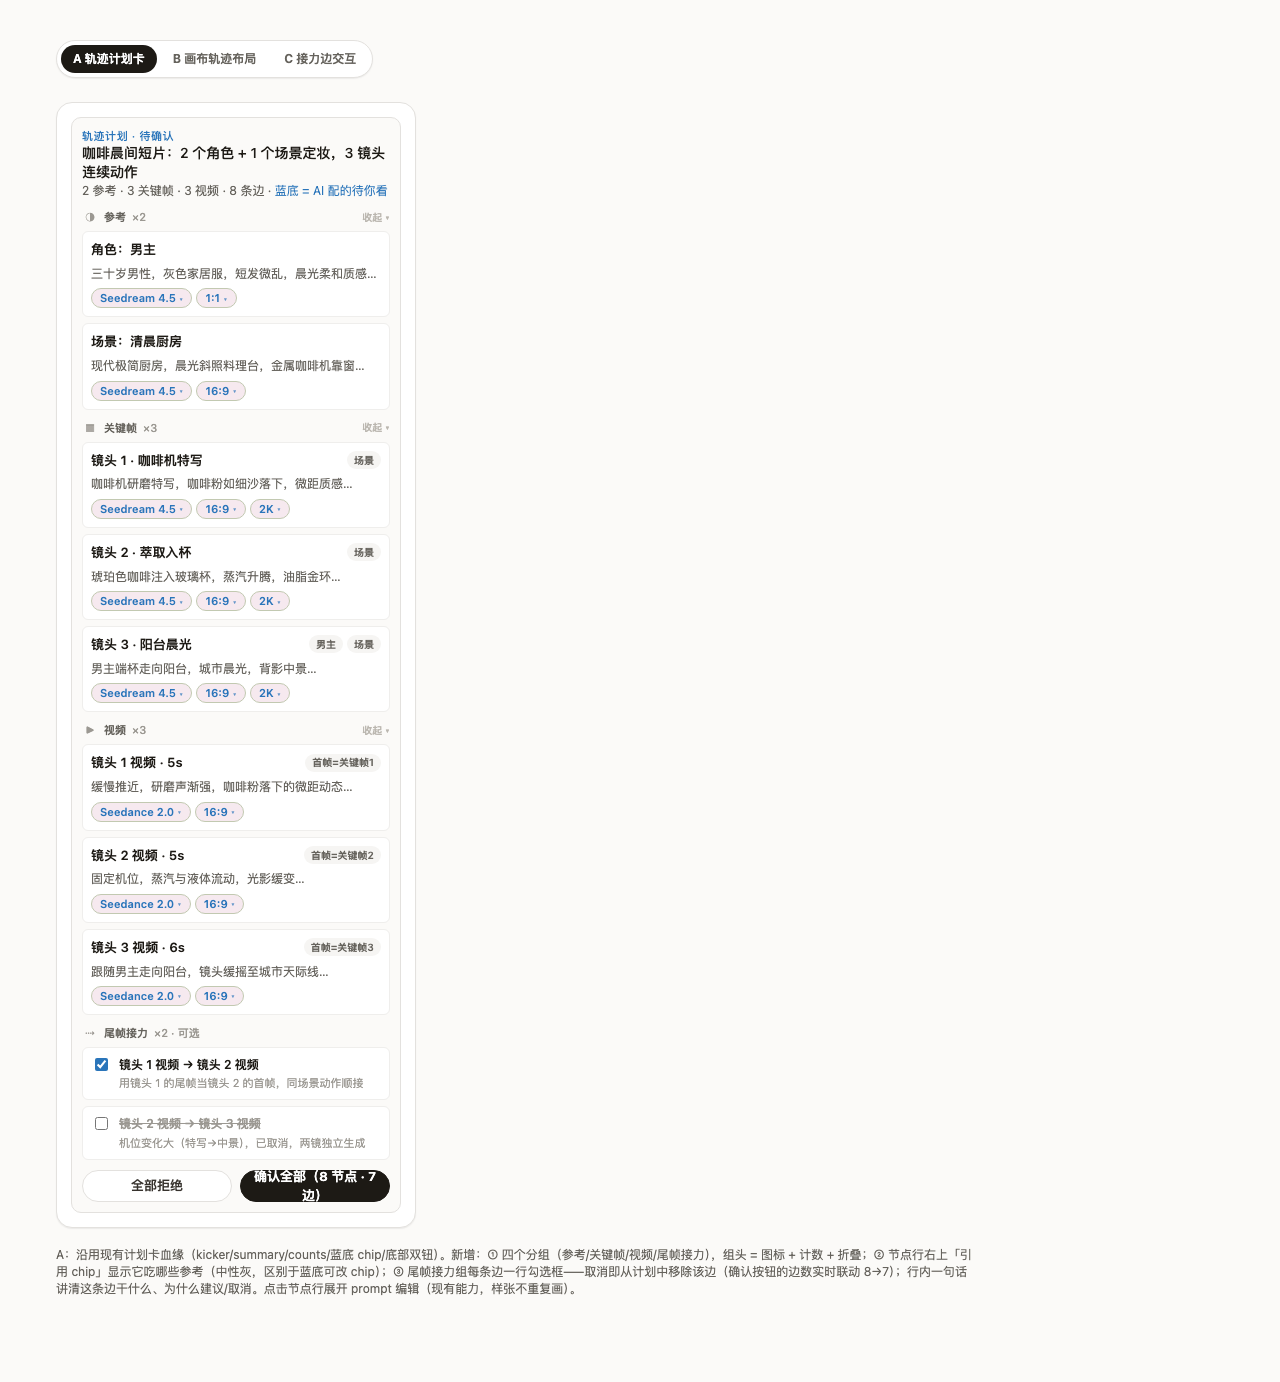
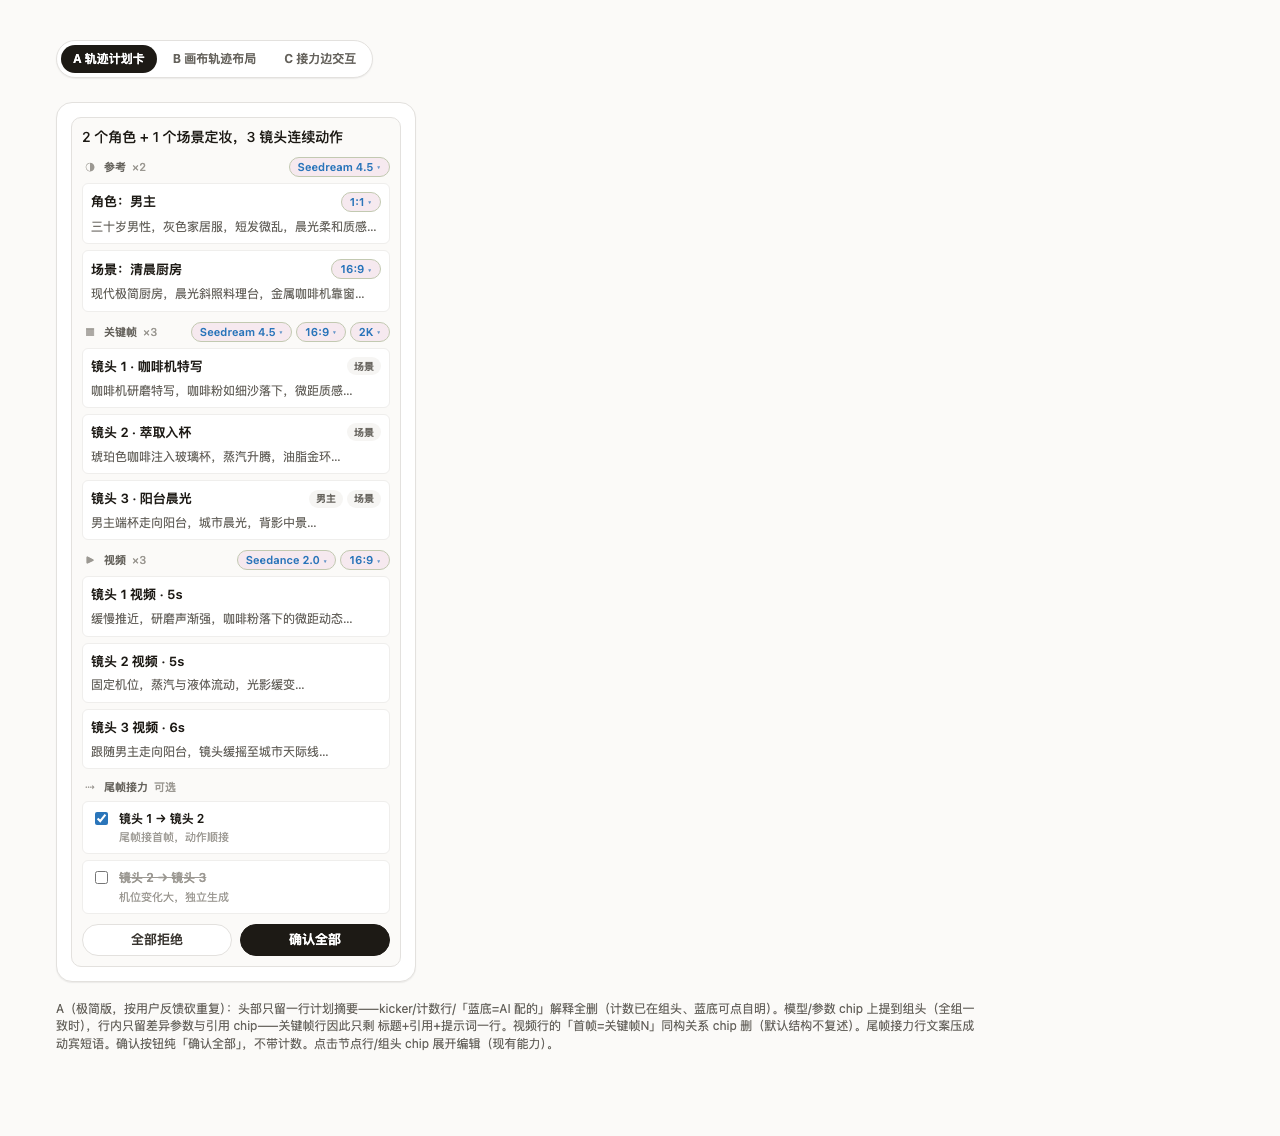
docs(design): T3 计划卡极简化——按用户反馈砍三段头部与重复 chip
为什么:用户反馈「确认全部不要带计数、上面三段字乱、要极简」。

做了什么:头部只留一行摘要(kicker/计数行/「蓝底=AI配的」解释全删,
计数已在组头、蓝底可点自明);全组一致的模型/参数 chip 上提组头,
行内只留差异参数与引用 chip;视频行「首帧=关键帧N」同构 chip 删;
接力行文案压成动宾短语;确认按钮纯「确认全部」。

Changed region(s): [[0.0312, 0.0308, 0.7812, 0.9551], [0.2812, 0.3697, 0.3125, 0.4005]]

diff --git a/docs/design/mockups/2026-06-13-trajectory-plan-card.html b/docs/design/mockups/2026-06-13-trajectory-plan-card.html
@@ -77,7 +77,7 @@
     }
     .layer-head .ic { display: inline-grid; place-items: center; width: 16px; height: 16px; color: var(--nomi-ink-40); }
     .layer-head .count { color: var(--nomi-ink-40); font-weight: 500; }
-    .layer-head .fold { margin-left: auto; color: var(--nomi-ink-30); font-size: 10px; }
+    .layer-head .head-chips { margin-left: auto; display: inline-flex; gap: 4px; }
 
     .node-row {
       display: flex; flex-direction: column; gap: 6px;
@@ -187,89 +187,77 @@
   <main id="screen-a" class="screen active">
     <div class="assistant-col">
       <div class="plan-card">
-        <div>
-          <div class="plan-kicker">轨迹计划 · 待确认</div>
-          <div class="plan-summary">咖啡晨间短片：2 个角色 + 1 个场景定妆，3 镜头连续动作</div>
-          <div class="plan-counts">2 参考 · 3 关键帧 · 3 视频 · 8 条边 · <span style="color: var(--nomi-accent)">蓝底 = AI 配的待你看</span></div>
-        </div>
+        <div class="plan-summary">2 个角色 + 1 个场景定妆，3 镜头连续动作</div>
 
         <section class="layer">
-          <div class="layer-head"><span class="ic">◑</span>参考 <span class="count">×2</span><span class="fold">收起 ▾</span></div>
+          <div class="layer-head"><span class="ic">◑</span>参考 <span class="count">×2</span><span class="head-chips"><span class="model-chip">Seedream 4.5 <span class="v">▾</span></span></span></div>
           <div class="node-row">
-            <div class="head"><span class="title">角色：男主</span></div>
+            <div class="head"><span class="title">角色：男主</span><span class="refs"><span class="model-chip">1:1 <span class="v">▾</span></span></span></div>
             <div class="prompt">三十岁男性，灰色家居服，短发微乱，晨光柔和质感…</div>
-            <div class="chips"><span class="model-chip">Seedream 4.5 <span class="v">▾</span></span><span class="model-chip">1:1 <span class="v">▾</span></span></div>
           </div>
           <div class="node-row">
-            <div class="head"><span class="title">场景：清晨厨房</span></div>
+            <div class="head"><span class="title">场景：清晨厨房</span><span class="refs"><span class="model-chip">16:9 <span class="v">▾</span></span></span></div>
             <div class="prompt">现代极简厨房，晨光斜照料理台，金属咖啡机靠窗…</div>
-            <div class="chips"><span class="model-chip">Seedream 4.5 <span class="v">▾</span></span><span class="model-chip">16:9 <span class="v">▾</span></span></div>
           </div>
         </section>
 
         <section class="layer">
-          <div class="layer-head"><span class="ic">▦</span>关键帧 <span class="count">×3</span><span class="fold">收起 ▾</span></div>
+          <div class="layer-head"><span class="ic">▦</span>关键帧 <span class="count">×3</span><span class="head-chips"><span class="model-chip">Seedream 4.5 <span class="v">▾</span></span><span class="model-chip">16:9 <span class="v">▾</span></span><span class="model-chip">2K <span class="v">▾</span></span></span></div>
           <div class="node-row">
             <div class="head"><span class="title">镜头 1 · 咖啡机特写</span><span class="refs"><span class="ref-chip">场景</span></span></div>
             <div class="prompt">咖啡机研磨特写，咖啡粉如细沙落下，微距质感…</div>
-            <div class="chips"><span class="model-chip">Seedream 4.5 <span class="v">▾</span></span><span class="model-chip">16:9 <span class="v">▾</span></span><span class="model-chip">2K <span class="v">▾</span></span></div>
           </div>
           <div class="node-row">
             <div class="head"><span class="title">镜头 2 · 萃取入杯</span><span class="refs"><span class="ref-chip">场景</span></span></div>
             <div class="prompt">琥珀色咖啡注入玻璃杯，蒸汽升腾，油脂金环…</div>
-            <div class="chips"><span class="model-chip">Seedream 4.5 <span class="v">▾</span></span><span class="model-chip">16:9 <span class="v">▾</span></span><span class="model-chip">2K <span class="v">▾</span></span></div>
           </div>
           <div class="node-row">
             <div class="head"><span class="title">镜头 3 · 阳台晨光</span><span class="refs"><span class="ref-chip">男主</span><span class="ref-chip">场景</span></span></div>
             <div class="prompt">男主端杯走向阳台，城市晨光，背影中景…</div>
-            <div class="chips"><span class="model-chip">Seedream 4.5 <span class="v">▾</span></span><span class="model-chip">16:9 <span class="v">▾</span></span><span class="model-chip">2K <span class="v">▾</span></span></div>
           </div>
         </section>
 
         <section class="layer">
-          <div class="layer-head"><span class="ic">▶</span>视频 <span class="count">×3</span><span class="fold">收起 ▾</span></div>
+          <div class="layer-head"><span class="ic">▶</span>视频 <span class="count">×3</span><span class="head-chips"><span class="model-chip">Seedance 2.0 <span class="v">▾</span></span><span class="model-chip">16:9 <span class="v">▾</span></span></span></div>
           <div class="node-row">
-            <div class="head"><span class="title">镜头 1 视频 · 5s</span><span class="refs"><span class="ref-chip">首帧=关键帧1</span></span></div>
+            <div class="head"><span class="title">镜头 1 视频 · 5s</span></div>
             <div class="prompt">缓慢推近，研磨声渐强，咖啡粉落下的微距动态…</div>
-            <div class="chips"><span class="model-chip">Seedance 2.0 <span class="v">▾</span></span><span class="model-chip">16:9 <span class="v">▾</span></span></div>
           </div>
           <div class="node-row">
-            <div class="head"><span class="title">镜头 2 视频 · 5s</span><span class="refs"><span class="ref-chip">首帧=关键帧2</span></span></div>
+            <div class="head"><span class="title">镜头 2 视频 · 5s</span></div>
             <div class="prompt">固定机位，蒸汽与液体流动，光影缓变…</div>
-            <div class="chips"><span class="model-chip">Seedance 2.0 <span class="v">▾</span></span><span class="model-chip">16:9 <span class="v">▾</span></span></div>
           </div>
           <div class="node-row">
-            <div class="head"><span class="title">镜头 3 视频 · 6s</span><span class="refs"><span class="ref-chip">首帧=关键帧3</span></span></div>
+            <div class="head"><span class="title">镜头 3 视频 · 6s</span></div>
             <div class="prompt">跟随男主走向阳台，镜头缓摇至城市天际线…</div>
-            <div class="chips"><span class="model-chip">Seedance 2.0 <span class="v">▾</span></span><span class="model-chip">16:9 <span class="v">▾</span></span></div>
           </div>
         </section>
 
         <section class="layer">
-          <div class="layer-head"><span class="ic">⇢</span>尾帧接力 <span class="count">×2 · 可选</span></div>
+          <div class="layer-head"><span class="ic">⇢</span>尾帧接力 <span class="count">可选</span></div>
           <div class="relay-row">
             <input type="checkbox" checked aria-label="启用 镜头1→镜头2 尾帧接力" />
             <div>
-              <div class="t">镜头 1 视频 → 镜头 2 视频</div>
-              <div class="d">用镜头 1 的尾帧当镜头 2 的首帧，同场景动作顺接</div>
+              <div class="t">镜头 1 → 镜头 2</div>
+              <div class="d">尾帧接首帧，动作顺接</div>
             </div>
           </div>
           <div class="relay-row" data-off="true">
             <input type="checkbox" aria-label="启用 镜头2→镜头3 尾帧接力" />
             <div>
-              <div class="t">镜头 2 视频 → 镜头 3 视频</div>
-              <div class="d">机位变化大（特写→中景），已取消，两镜独立生成</div>
+              <div class="t">镜头 2 → 镜头 3</div>
+              <div class="d">机位变化大，独立生成</div>
             </div>
           </div>
         </section>
 
         <div class="plan-footer">
           <button class="btn">全部拒绝</button>
-          <button class="btn primary">确认全部（8 节点 · 7 边）</button>
+          <button class="btn primary">确认全部</button>
         </div>
       </div>
     </div>
-    <p class="note">A：沿用现有计划卡血缘（kicker/summary/counts/蓝底 chip/底部双钮）。新增：① 四个分组（参考/关键帧/视频/尾帧接力），组头 = 图标 + 计数 + 折叠；② 节点行右上「引用 chip」显示它吃哪些参考（中性灰，区别于蓝底可改 chip）；③ 尾帧接力组每条边一行勾选框——取消即从计划中移除该边（确认按钮的边数实时联动 8→7）；行内一句话讲清这条边干什么、为什么建议/取消。点击节点行展开 prompt 编辑（现有能力，样张不重复画）。</p>
+    <p class="note">A（极简版，按用户反馈砍重复）：头部只留一行计划摘要——kicker/计数行/「蓝底=AI 配的」解释全删（计数已在组头、蓝底可点自明）。模型/参数 chip 上提到组头（全组一致时），行内只留差异参数与引用 chip——关键帧行因此只剩 标题+引用+提示词一行。视频行的「首帧=关键帧N」同构关系 chip 删（默认结构不复述）。尾帧接力行文案压成动宾短语。确认按钮纯「确认全部」，不带计数。点击节点行/组头 chip 展开编辑（现有能力）。</p>
   </main>
 
   <!-- ===== B ===== -->